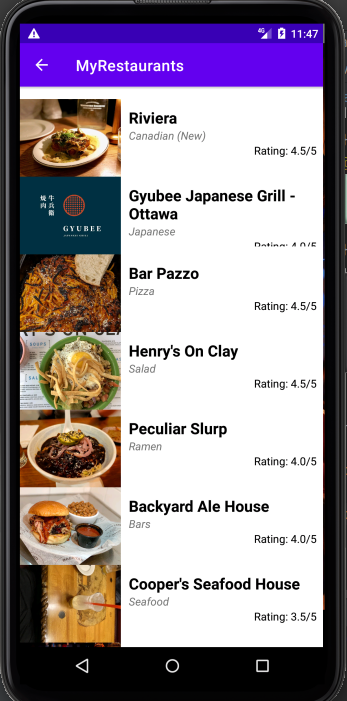
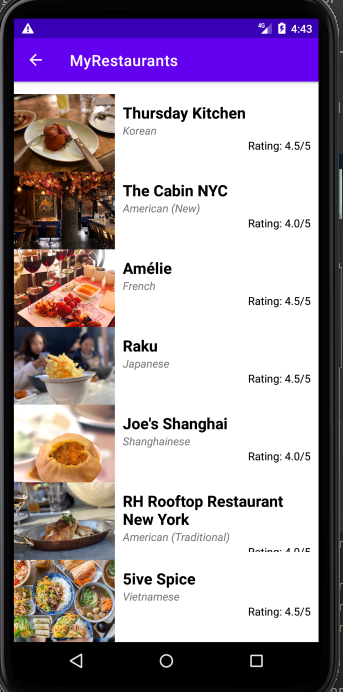
Update README.md

diff --git a/README.md b/README.md
@@ -7,6 +7,9 @@
 ![App image](app/src/Assets/README/s3.png)
 ![App image](app/src/Assets/README/s4.png)
 ![App image](app/src/Assets/README/s5.png)
+![App image](app/src/Assets/README/s6.png)
+![App image](app/src/Assets/README/s7.png)
+![App image](app/src/Assets/README/s8.png)
 
 ## Setup/Installation Requirements
 * Fork/Clone the repository
